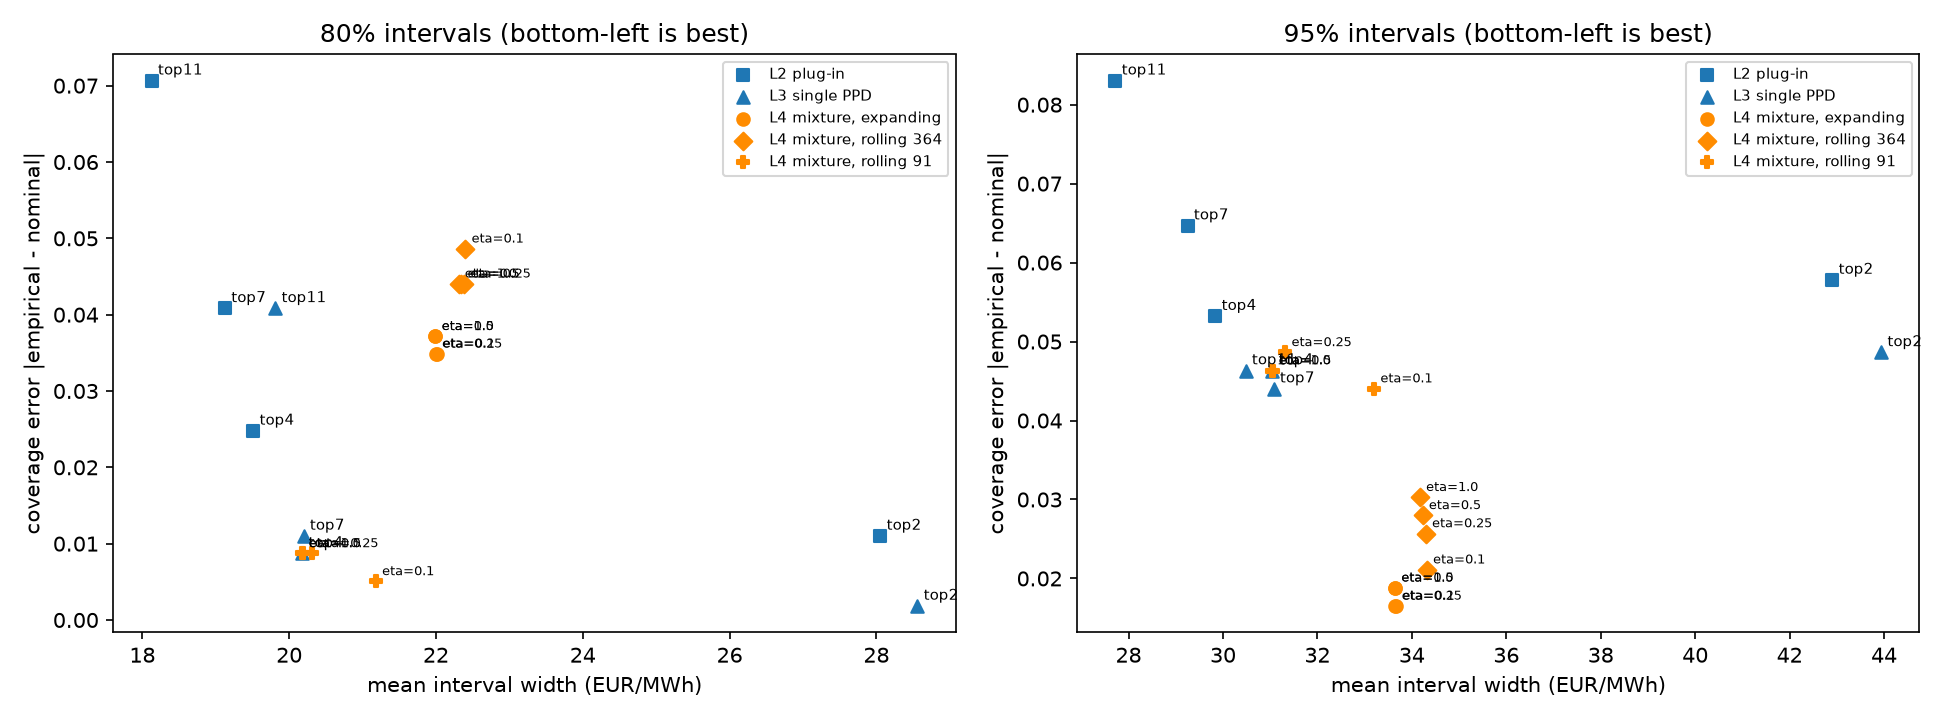
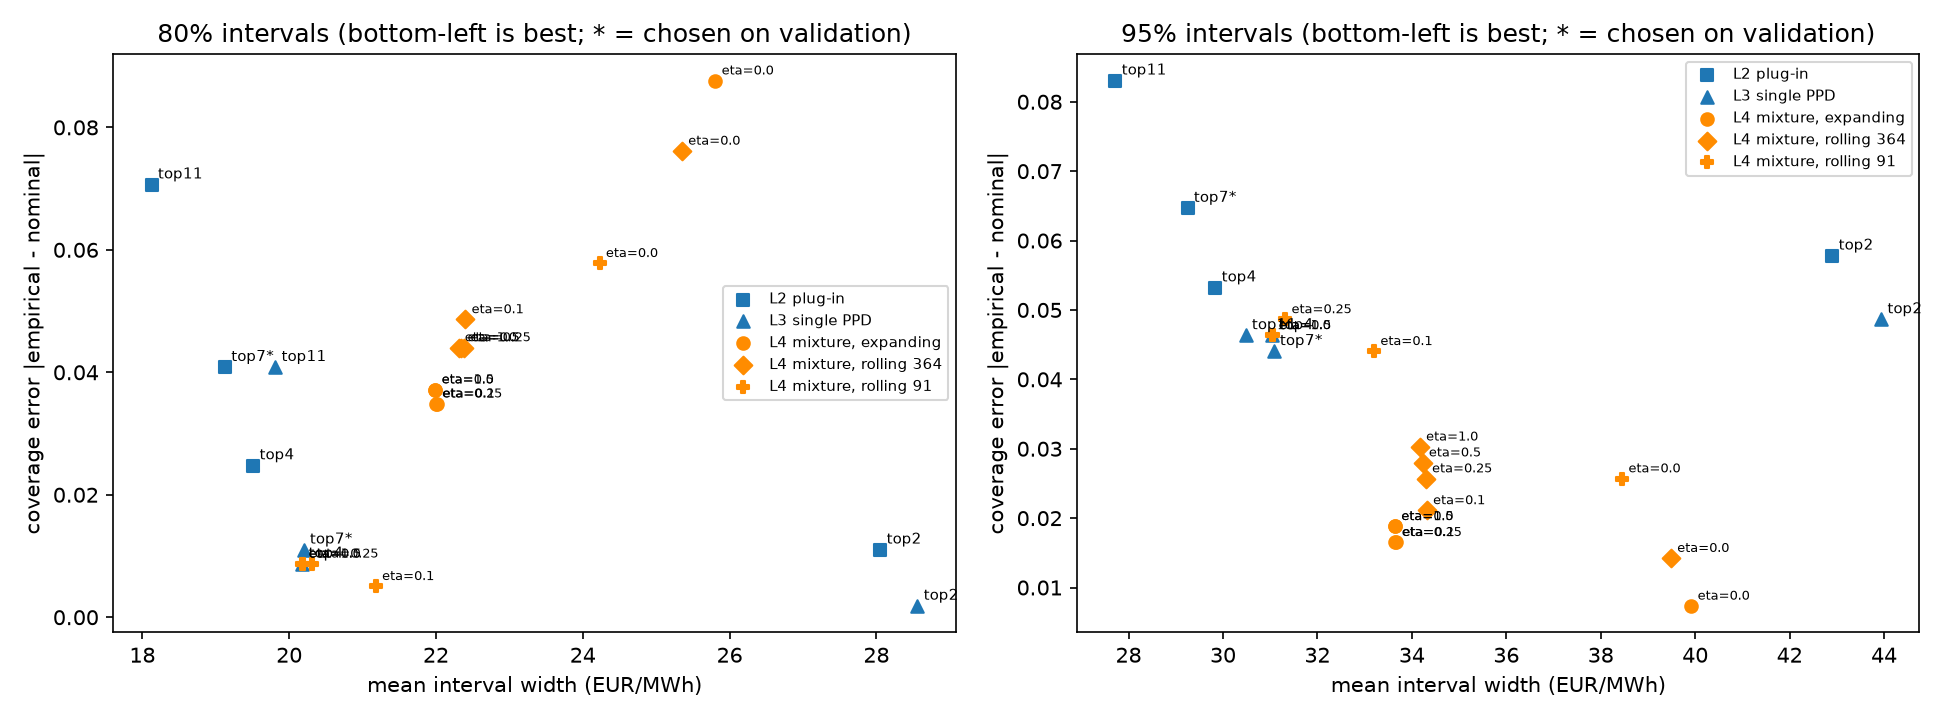
Updated the real data

diff --git a/.ipynb_checkpoints/run_real-checkpoint.py b/.ipynb_checkpoints/run_real-checkpoint.py
@@ -27,7 +27,7 @@ from epf_forecast import (run_origin, summarize, mixture_lps, mixture_logw,
 
 # ----------------------------------------------------------------- config
 LEVELS = (0.8, 0.95)                      # nominal interval levels
-ETAS = (1.0, 0.5, 0.25, 0.1)              # inverse temperatures tried
+ETAS = (1.0, 0.5, 0.25, 0.1, 0.0)         # inverse temperatures tried (0 = equal weights, reference)
 WINDOWS = {"expanding": None, "rolling 364": 364, "rolling 91": 91}   # in days
 BURN_IN = 364                             # first validation target (days of history)
 TRAIN_FRAC = 0.8
@@ -104,18 +104,29 @@ print(mix.pivot(index="window", columns="eta", values="lps").round(3).to_string(
 print("single models, validation LPS:")
 print(grid[grid.model != "mixture"].pivot(index="window", columns="model", values="lps").round(3).to_string())
 print(f"\nchosen on validation: window = {BEST_WINDOW}, eta = {BEST_ETA}")
-if BEST_ETA in (min(ETAS), max(ETAS)):
-    print("  note: the best eta is at the edge of the grid")
+pos_etas = [e for e in ETAS if e > 0]
+if BEST_ETA == 0.0 or BEST_ETA == min(pos_etas):
+    print("  note: the best eta is at the lower edge of the grid (eta=0 is the equal-weight reference)")
+
+# The single model for the layer comparison is chosen on VALIDATION data only
+# (in real use the test period is not available for choosing a model).
+gsingle = grid[(grid.window == BEST_WINDOW) & (grid.model != "mixture")]
+SEL_NAME = gsingle.loc[gsingle.lps.idxmax(), "model"]
+SEL_IDX = names.index(SEL_NAME)
+print(f"single model chosen on validation (window {BEST_WINDOW}): {SEL_NAME}")
 json.dump(dict(hour=args.hour, selector=args.selector, order=[FEATURES[j] for j in order],
-               sizes=SIZES, window=BEST_WINDOW, eta=BEST_ETA, levels=LEVELS),
-          open(out("chosen_settings.json"), "w"), indent=2)
+               sizes=SIZES, window=BEST_WINDOW, eta=BEST_ETA, single_model=SEL_NAME,
+               levels=LEVELS), open(out("chosen_settings.json"), "w"), indent=2)
 
 plt.figure(figsize=(7, 4))
+xs_eta = np.arange(len(ETAS))
 for wname in WINDOWS:
-    d = mix[mix.window == wname]
-    plt.plot(d["eta"].astype(float), d["lps"], "o-", label=wname)
-plt.xscale("log"); plt.xlabel("inverse temperature eta"); plt.ylabel("validation log predictive score")
-plt.title("Tuning on train+validation (mixture)"); plt.legend()
+    d = mix[mix.window == wname].set_index("eta").loc[list(ETAS)]
+    plt.plot(xs_eta, d["lps"].values, "o-", label=wname)
+plt.xticks(xs_eta, [str(e) for e in ETAS])
+plt.xlabel("inverse temperature eta (0 = equal weights)"); plt.ylabel("validation log predictive score")
+plt.title("Tuning on train+validation (mixture)")
+plt.legend(loc="upper center", bbox_to_anchor=(0.5, -0.22), ncol=3, fontsize=8)
 savefig("fig_tuning_eta_window.png")
 
 # ----------------------------------------------------------------- 4. test
@@ -133,6 +144,15 @@ show = res[res.window == BEST_WINDOW][cols]
 print(f"window = {BEST_WINDOW} (nominal coverage 80% / 95%; LPS higher = better)")
 print(show.to_string(index=False, na_rep="", float_format=lambda v: f"{v:.3f}"))
 mixrows = res[(res.layer == "L4 mixture PPD")]
+
+# Layer comparison: the single model is the one chosen on validation (not on test).
+cmp_rows = res[(res.window == BEST_WINDOW) & (
+    ((res.model == SEL_NAME) & res.layer.isin(["L1 point", "L2 plug-in", "L3 single PPD"])) |
+    ((res.layer == "L4 mixture PPD") & res.eta.isin([BEST_ETA, 0.0])))][cols]
+cmp_rows.to_csv(out("test_layer_comparison.csv"), index=False)
+print(f"\nLAYER COMPARISON on test (single model {SEL_NAME} chosen on validation; "
+      f"mixture eta={BEST_ETA} tuned on validation; eta=0 = equal-weight reference):")
+print(cmp_rows.to_string(index=False, na_rep="", float_format=lambda v: f"{v:.3f}"))
 print("\nmixture on test, all windows and etas:")
 print(mixrows[["window", "eta", "cov80", "cov95", "width80", "width95", "lps"]]
       .to_string(index=False, float_format=lambda v: f"{v:.3f}"))
@@ -161,7 +181,8 @@ for ax_, l in zip(np.atleast_1d(axs), LEVELS):
         d = sub[sub.layer == layer]
         ax_.scatter(d[wd], (d[c] - l).abs(), marker=mk, color="tab:blue", label=layer)
         for _, r in d.iterrows():
-            ax_.annotate(r["model"], (r[wd], abs(r[c] - l)), fontsize=7, xytext=(3, 3), textcoords="offset points")
+            lab = r["model"] + ("*" if r["model"] == SEL_NAME else "")
+            ax_.annotate(lab, (r[wd], abs(r[c] - l)), fontsize=7, xytext=(3, 3), textcoords="offset points")
     for wname, mk in zip(WINDOWS, ("o", "D", "P")):
         d = mixrows[mixrows.window == wname]
         ax_.scatter(d[wd], (d[c] - l).abs(), marker=mk, color="darkorange",
@@ -169,14 +190,14 @@ for ax_, l in zip(np.atleast_1d(axs), LEVELS):
         for _, r in d.iterrows():
             ax_.annotate(f"eta={r['eta']}", (r[wd], abs(r[c] - l)), fontsize=6, xytext=(3, 3), textcoords="offset points")
     ax_.set_xlabel("mean interval width (EUR/MWh)"); ax_.set_ylabel("coverage error |empirical - nominal|")
-    ax_.set_title(f"{round(l*100)}% intervals (bottom-left is best)"); ax_.legend(fontsize=7)
+    ax_.set_title(f"{round(l*100)}% intervals (bottom-left is best; * = chosen on validation)")
+    ax_.legend(fontsize=7)
 savefig("fig_coverage_error_vs_width.png")
 
 fig, ax = plt.subplots(1, 2, figsize=(10, 3.6), sharey=True)
-best_single = int(np.argmax(stb["logpdf"].mean(axis=0)))
-pit_single = np.array([stb["comps"][i][best_single].cdf(stb["y"][i]) for i in range(len(test_s))])
+pit_single = np.array([stb["comps"][i][SEL_IDX].cdf(stb["y"][i]) for i in range(len(test_s))])
 for a_, pit, ttl in ((ax[0], mixture_pit(stb, BEST_ETA), f"mixture (eta={BEST_ETA})"),
-                     (ax[1], pit_single, f"single PPD {names[best_single]}")):
+                     (ax[1], pit_single, f"single PPD {SEL_NAME} (chosen on validation)")):
     a_.hist(pit, bins=10, range=(0, 1), density=True, color="steelblue", alpha=0.8)
     a_.axhline(1, color="red", ls="--"); a_.set_title("PIT: " + ttl)
 savefig("fig_pit.png")

diff --git a/run_real.py b/run_real.py
@@ -27,7 +27,7 @@ from epf_forecast import (run_origin, summarize, mixture_lps, mixture_logw,
 
 # ----------------------------------------------------------------- config
 LEVELS = (0.8, 0.95)                      # nominal interval levels
-ETAS = (1.0, 0.5, 0.25, 0.1)              # inverse temperatures tried
+ETAS = (1.0, 0.5, 0.25, 0.1, 0.0)         # inverse temperatures tried (0 = equal weights, reference)
 WINDOWS = {"expanding": None, "rolling 364": 364, "rolling 91": 91}   # in days
 BURN_IN = 364                             # first validation target (days of history)
 TRAIN_FRAC = 0.8
@@ -104,18 +104,29 @@ print(mix.pivot(index="window", columns="eta", values="lps").round(3).to_string(
 print("single models, validation LPS:")
 print(grid[grid.model != "mixture"].pivot(index="window", columns="model", values="lps").round(3).to_string())
 print(f"\nchosen on validation: window = {BEST_WINDOW}, eta = {BEST_ETA}")
-if BEST_ETA in (min(ETAS), max(ETAS)):
-    print("  note: the best eta is at the edge of the grid")
+pos_etas = [e for e in ETAS if e > 0]
+if BEST_ETA == 0.0 or BEST_ETA == min(pos_etas):
+    print("  note: the best eta is at the lower edge of the grid (eta=0 is the equal-weight reference)")
+
+# The single model for the layer comparison is chosen on VALIDATION data only
+# (in real use the test period is not available for choosing a model).
+gsingle = grid[(grid.window == BEST_WINDOW) & (grid.model != "mixture")]
+SEL_NAME = gsingle.loc[gsingle.lps.idxmax(), "model"]
+SEL_IDX = names.index(SEL_NAME)
+print(f"single model chosen on validation (window {BEST_WINDOW}): {SEL_NAME}")
 json.dump(dict(hour=args.hour, selector=args.selector, order=[FEATURES[j] for j in order],
-               sizes=SIZES, window=BEST_WINDOW, eta=BEST_ETA, levels=LEVELS),
-          open(out("chosen_settings.json"), "w"), indent=2)
+               sizes=SIZES, window=BEST_WINDOW, eta=BEST_ETA, single_model=SEL_NAME,
+               levels=LEVELS), open(out("chosen_settings.json"), "w"), indent=2)
 
 plt.figure(figsize=(7, 4))
+xs_eta = np.arange(len(ETAS))
 for wname in WINDOWS:
-    d = mix[mix.window == wname]
-    plt.plot(d["eta"].astype(float), d["lps"], "o-", label=wname)
-plt.xscale("log"); plt.xlabel("inverse temperature eta"); plt.ylabel("validation log predictive score")
-plt.title("Tuning on train+validation (mixture)"); plt.legend()
+    d = mix[mix.window == wname].set_index("eta").loc[list(ETAS)]
+    plt.plot(xs_eta, d["lps"].values, "o-", label=wname)
+plt.xticks(xs_eta, [str(e) for e in ETAS])
+plt.xlabel("inverse temperature eta (0 = equal weights)"); plt.ylabel("validation log predictive score")
+plt.title("Tuning on train+validation (mixture)")
+plt.legend(loc="upper center", bbox_to_anchor=(0.5, -0.22), ncol=3, fontsize=8)
 savefig("fig_tuning_eta_window.png")
 
 # ----------------------------------------------------------------- 4. test
@@ -133,6 +144,15 @@ show = res[res.window == BEST_WINDOW][cols]
 print(f"window = {BEST_WINDOW} (nominal coverage 80% / 95%; LPS higher = better)")
 print(show.to_string(index=False, na_rep="", float_format=lambda v: f"{v:.3f}"))
 mixrows = res[(res.layer == "L4 mixture PPD")]
+
+# Layer comparison: the single model is the one chosen on validation (not on test).
+cmp_rows = res[(res.window == BEST_WINDOW) & (
+    ((res.model == SEL_NAME) & res.layer.isin(["L1 point", "L2 plug-in", "L3 single PPD"])) |
+    ((res.layer == "L4 mixture PPD") & res.eta.isin([BEST_ETA, 0.0])))][cols]
+cmp_rows.to_csv(out("test_layer_comparison.csv"), index=False)
+print(f"\nLAYER COMPARISON on test (single model {SEL_NAME} chosen on validation; "
+      f"mixture eta={BEST_ETA} tuned on validation; eta=0 = equal-weight reference):")
+print(cmp_rows.to_string(index=False, na_rep="", float_format=lambda v: f"{v:.3f}"))
 print("\nmixture on test, all windows and etas:")
 print(mixrows[["window", "eta", "cov80", "cov95", "width80", "width95", "lps"]]
       .to_string(index=False, float_format=lambda v: f"{v:.3f}"))
@@ -161,7 +181,8 @@ for ax_, l in zip(np.atleast_1d(axs), LEVELS):
         d = sub[sub.layer == layer]
         ax_.scatter(d[wd], (d[c] - l).abs(), marker=mk, color="tab:blue", label=layer)
         for _, r in d.iterrows():
-            ax_.annotate(r["model"], (r[wd], abs(r[c] - l)), fontsize=7, xytext=(3, 3), textcoords="offset points")
+            lab = r["model"] + ("*" if r["model"] == SEL_NAME else "")
+            ax_.annotate(lab, (r[wd], abs(r[c] - l)), fontsize=7, xytext=(3, 3), textcoords="offset points")
     for wname, mk in zip(WINDOWS, ("o", "D", "P")):
         d = mixrows[mixrows.window == wname]
         ax_.scatter(d[wd], (d[c] - l).abs(), marker=mk, color="darkorange",
@@ -169,14 +190,14 @@ for ax_, l in zip(np.atleast_1d(axs), LEVELS):
         for _, r in d.iterrows():
             ax_.annotate(f"eta={r['eta']}", (r[wd], abs(r[c] - l)), fontsize=6, xytext=(3, 3), textcoords="offset points")
     ax_.set_xlabel("mean interval width (EUR/MWh)"); ax_.set_ylabel("coverage error |empirical - nominal|")
-    ax_.set_title(f"{round(l*100)}% intervals (bottom-left is best)"); ax_.legend(fontsize=7)
+    ax_.set_title(f"{round(l*100)}% intervals (bottom-left is best; * = chosen on validation)")
+    ax_.legend(fontsize=7)
 savefig("fig_coverage_error_vs_width.png")
 
 fig, ax = plt.subplots(1, 2, figsize=(10, 3.6), sharey=True)
-best_single = int(np.argmax(stb["logpdf"].mean(axis=0)))
-pit_single = np.array([stb["comps"][i][best_single].cdf(stb["y"][i]) for i in range(len(test_s))])
+pit_single = np.array([stb["comps"][i][SEL_IDX].cdf(stb["y"][i]) for i in range(len(test_s))])
 for a_, pit, ttl in ((ax[0], mixture_pit(stb, BEST_ETA), f"mixture (eta={BEST_ETA})"),
-                     (ax[1], pit_single, f"single PPD {names[best_single]}")):
+                     (ax[1], pit_single, f"single PPD {SEL_NAME} (chosen on validation)")):
     a_.hist(pit, bins=10, range=(0, 1), density=True, color="steelblue", alpha=0.8)
     a_.axhline(1, color="red", ls="--"); a_.set_title("PIT: " + ttl)
 savefig("fig_pit.png")
